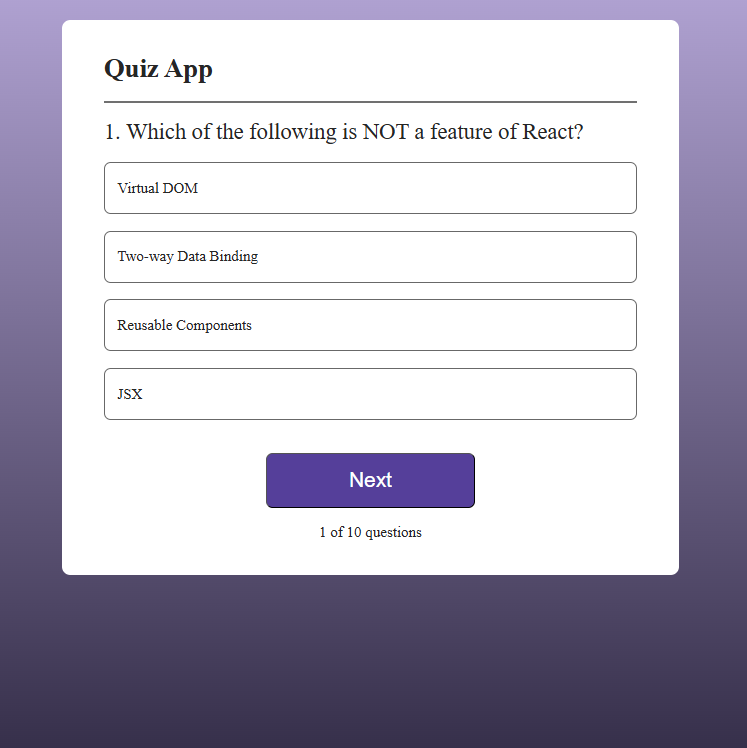
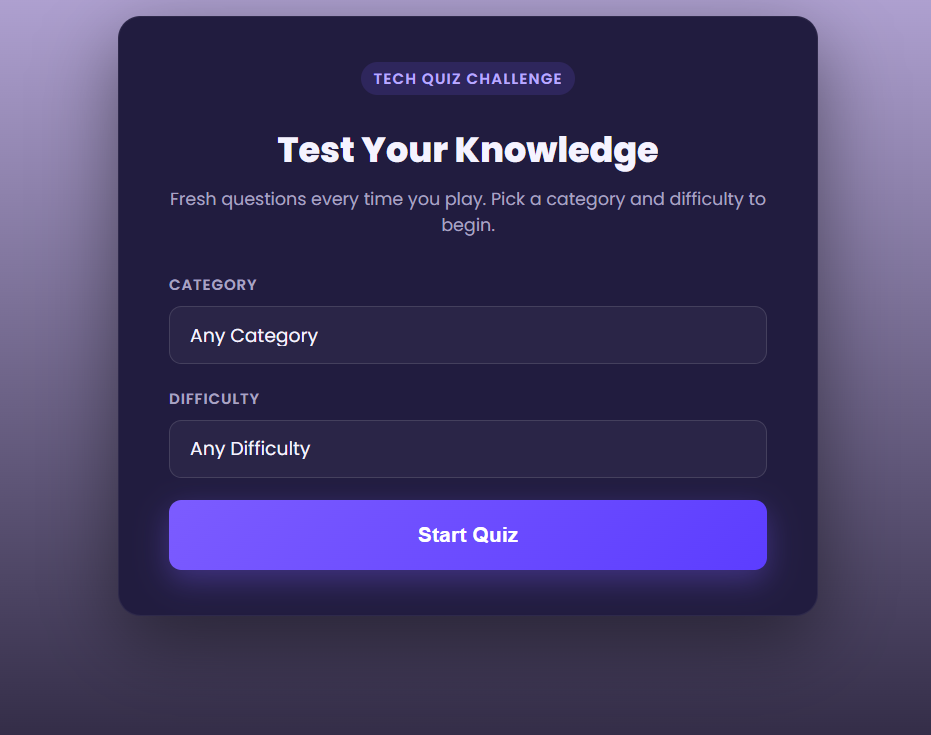
updated homepage

diff --git a/src/components/Hero.jsx b/src/components/Hero.jsx
@@ -37,7 +37,7 @@ const Hero = forwardRef((props, ref) => {
       <div className="card">
         <img src={profile} alt="Profile" />
         <h1>Anil Bhukya</h1>
-        <p>Not Just a Developer — A Digital Storyteller!</p>
+        <p>Frontend Developer | React.js Developer!</p>
       </div>
     </section>
   );
